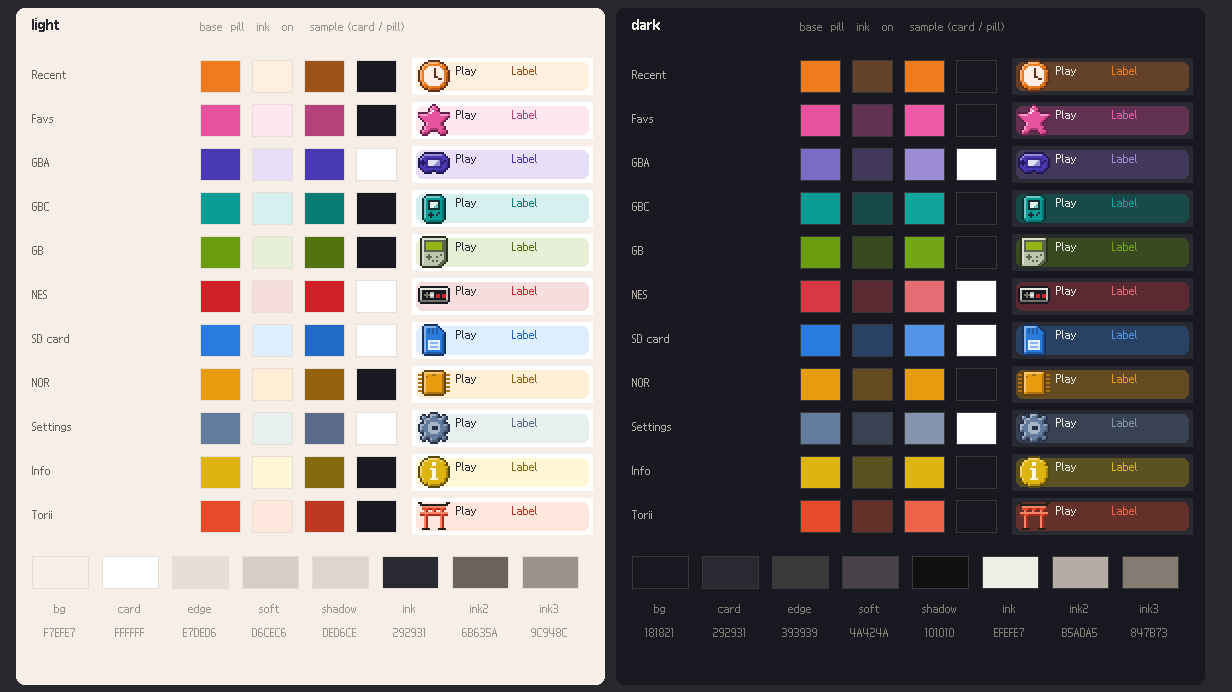
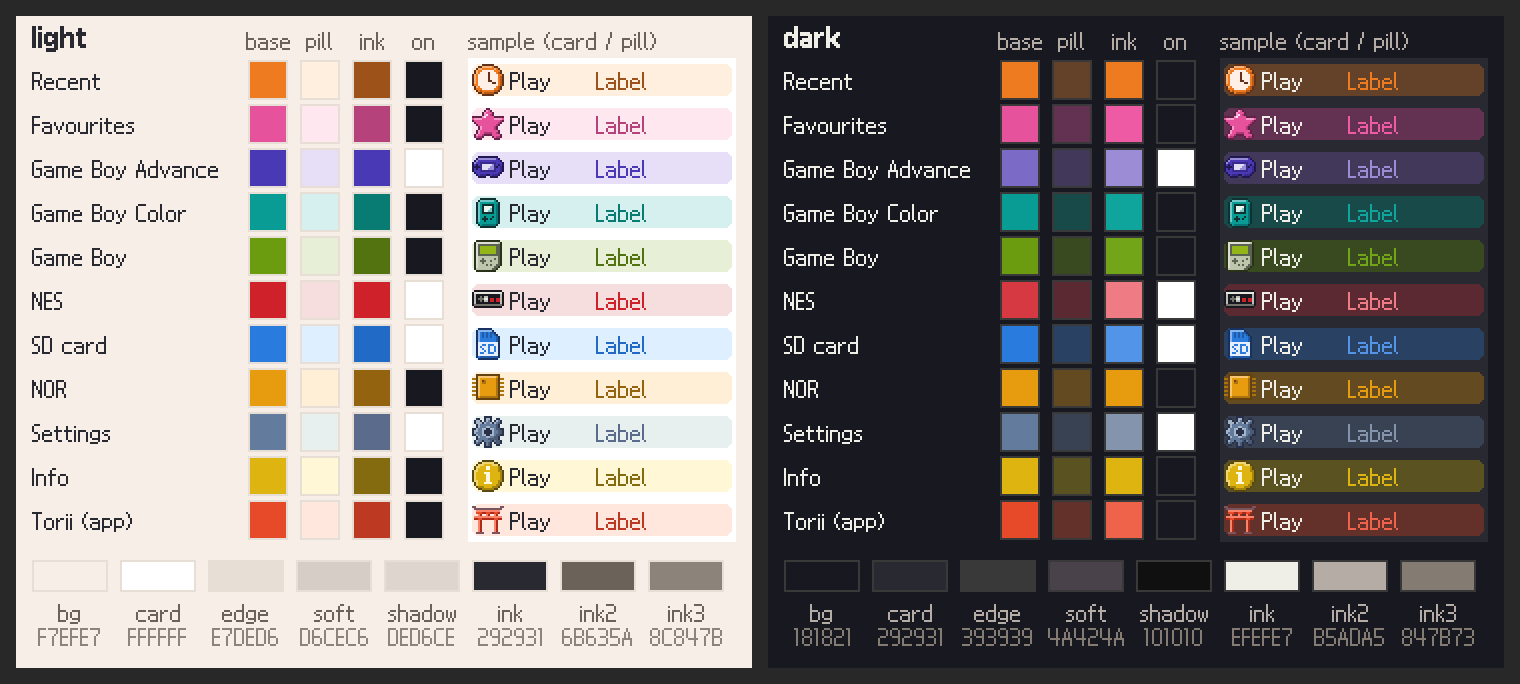
palette.png drawn from palette.json; the Settings mockup's hotkey rows renamed

diff --git a/tools/mockup/palette_sheet.py b/tools/mockup/palette_sheet.py
@@ -1,0 +1,78 @@
+"""The v0.4 palette sheet: docs/design/v0.4/palette.png from palette.json.
+
+usage: uv run --with pillow python -I tools/mockup/palette_sheet.py
+
+Draws both themes side by side: each carousel item's accent (base, pill
+tint, ink and on), a sample pill on a card with the item's 16x16 icon, and
+the surfaces. Run it after changing palette.json (`just palette` writes the
+C tables from the same file).
+"""
+
+import sys
+from pathlib import Path
+
+sys.path.insert(0, str(Path(__file__).resolve().parent))
+from gfx import BODY, HEAD, PALETTE, ROOT, icon, icon16, rect, rgb, rrect
+
+from PIL import Image
+
+OUT = ROOT / "docs/design/v0.4/palette.png"
+SCALE = 2
+PANEL_W, PANEL_H = 368, 326
+SW_X = 116  # the first swatch column
+SAMPLE_X = 226
+GAP = 8
+ROW = 22
+SWATCH = 20
+SURFACES = ["bg", "card", "edge", "soft", "shadow", "ink", "ink2", "ink3"]
+
+
+def swatch(img, x, y, w, h, colour, edge):
+    rect(img, x, y, w, h, edge)
+    rect(img, x + 1, y + 1, w - 2, h - 2, colour)
+
+
+def panel(name: str) -> Image.Image:
+    s = {k: rgb(v) for k, v in PALETTE["surfaces"][name].items()}
+    img = Image.new("RGB", (PANEL_W, PANEL_H), s["bg"])
+    HEAD.draw(img, 8, 2, name, s["ink"])
+    for i, label in enumerate(("base", "pill", "ink", "on")):
+        BODY.draw(img, SW_X + i * 26 + (SWATCH - BODY.width(label)) // 2, 6, label, s["ink2"])
+    BODY.draw(img, SAMPLE_X, 6, "sample (card / pill)", s["ink2"])
+    y = 22
+    for item, accent in PALETTE["accents"].items():
+        a = {k: rgb(v) for k, v in accent[name].items() if k != "contrast"}
+        BODY.draw(img, 8, y + 4, accent["name"], s["ink"])
+        for i, key in enumerate(("base", "tint", "ink", "on")):
+            swatch(img, SW_X + i * 26, y, SWATCH, SWATCH, a[key], s["edge"])
+        x = SAMPLE_X
+        rect(img, x, y - 1, 134, ROW, s["card"])
+        rrect(img, x + 2, y + 2, 130, 16, 3, a["tint"])
+        path = icon16(item)
+        if path.exists():
+            icon(img, path, x + 2, y + 2)
+        BODY.draw(img, x + 21, y + 4, "Play", s["ink"])
+        BODY.draw(img, x + 64, y + 4, "Label", a["ink"])
+        y += ROW
+    y += 8
+    for i, key in enumerate(SURFACES):
+        x = 8 + i * 44
+        swatch(img, x, y, 38, 16, s[key], s["edge"])
+        BODY.draw(img, x + (38 - BODY.width(key)) // 2, y + 20, key, s["ink2"])
+        hexa = PALETTE["surfaces"][name][key].lstrip("#")
+        BODY.draw(img, x + (38 - BODY.width(hexa)) // 2, y + 32, hexa, s["ink3"])
+    return img
+
+
+def main() -> int:
+    light, dark = panel("light"), panel("dark")
+    sheet = Image.new("RGB", (2 * PANEL_W + 3 * GAP, PANEL_H + 2 * GAP), (40, 40, 40))
+    sheet.paste(light, (GAP, GAP))
+    sheet.paste(dark, (2 * GAP + PANEL_W, GAP))
+    sheet.resize((sheet.width * SCALE, sheet.height * SCALE), Image.NEAREST).save(OUT)
+    print(f"wrote {OUT.relative_to(ROOT)}")
+    return 0
+
+
+if __name__ == "__main__":
+    sys.exit(main())

diff --git a/tools/mockup/settings.py b/tools/mockup/settings.py
@@ -126,13 +126,13 @@ SECTIONS = [
         "keys",
         "Hotkeys",
         [
-            ("Reset hotkey", "The keys leave a game for the menu.", "On"),
+            ("Back to menu", "Hold the keys to leave a game.", "On"),
             (
-                "Reset keys",
+                "Menu keys",
                 "Held together in game. A sets them.",
                 ("keys", ["L", "R", "START"]),
             ),
-            ("Sleep", "The keys put a game to sleep.", "On"),
+            ("Sleep", "Screen off. START+SELECT wakes it.", "On"),
             (
                 "Sleep keys",
                 "Held together in game. A sets them.",
@@ -450,7 +450,7 @@ def screens(name):
         countdown_hint(img, t, "Press keys... let go to set.", 0.7)
         out.append((img, "6 Sleep keys: press the combination"))
         img = settings_page(t, keys, (4, 3))
-        hint_text(img, t, "Already used by Reset keys.", t.danger)
+        hint_text(img, t, "Already used by Menu keys.", t.danger)
         out.append((img, "7 Refused: the old keys stay (90 f)"))
         out.append((browse(t, bottom, (5, 0)), "8 The bottom: Library and System"))
     else:

diff --git a/docs/design/v0.4/README.md b/docs/design/v0.4/README.md
@@ -7,7 +7,7 @@ These are a first target, not a contract: expect to change a lot once the first 
 - `pages-light.png`, `pages-dark.png`: all 24 screens in each theme.
 - `motion.png`: the carousel step, opening an item, a popup, and the theme switch, frame by frame.
 - `spec.md`: the numbers behind the mockups (spacing, carousel geometry, popups, keys, timings, hardware mapping).
-- `palette.json`, `palette.png`: surfaces and one accent per item, in both themes, snapped to 15-bit colour.
+- `palette.json`, `palette.png`: surfaces and one accent per item, in both themes, snapped to 15-bit colour; `tools/mockup/palette_sheet.py` draws the PNG from the JSON.
 - `settings-light.png`, `settings-dark.png`, `keyboard-light.png`, `keyboard-dark.png`: the Settings page (B16) and the rename keyboard (B18), explained in `mockups-b16-b18.md` and drawn by `tools/mockup/`.
 - `icons-c2.png`: the icons before and after the cart-test polish (C2: Settings, Info, NOR, SD card, the torii's beam, the 8x8 GBA and Info), on both themes' paper and cards, at 4x (`tools/mockup/icons_sheet.py`).
 - `boxes-d2.png`: the placeholder boxes list with art shows for a game without art, one a console: on each theme's cards, C2's boxes above D2's redrawn ones, at 1x and then 4x (`tools/mockup/boxes.py boxes-d2.png REF`).
